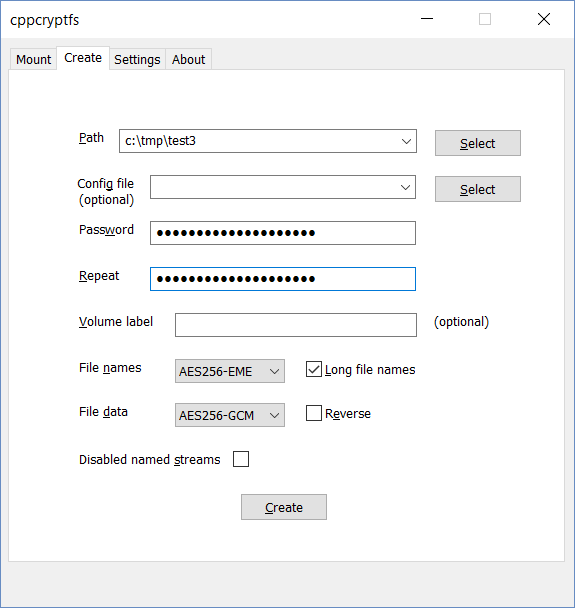
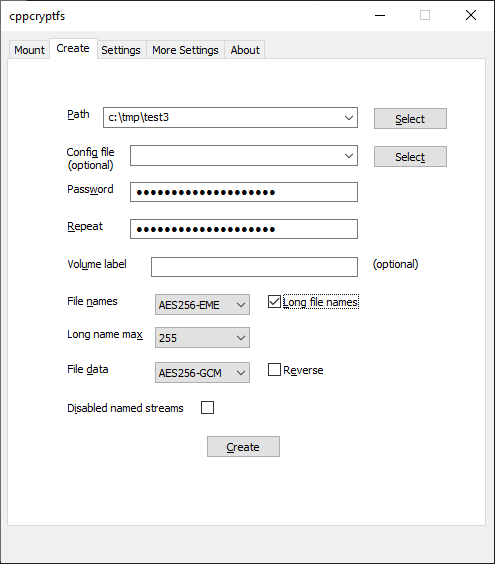
more changes for longnamemax

diff --git a/cppcryptfs/ui/CreatePropertyPage.cpp b/cppcryptfs/ui/CreatePropertyPage.cpp
@@ -254,6 +254,8 @@ void CCreatePropertyPage::CreateCryptfs()
 
 	theApp.WriteProfileStringW(L"CreateOptions", L"LongFileNames", clfns);
 
+	theApp.WriteProfileInt(L"CreateOptions", L"LongNameMax", longnamemax);
+
 	CString cdisablestreams = IsDlgButtonChecked(IDC_DISABLE_STREAMS) ? L"1" : L"0";
 
 	theApp.WriteProfileStringW(L"CreateOptions", L"DisableStreams", cdisablestreams);

diff --git a/README.md b/README.md
@@ -106,6 +106,8 @@ You can choose to have your file names encryped using AES256-EME or not to encry
 
 If "Long file names" is checked, then the names of files and directories can be up to 255 characters long when encrypted file names are used.  This option has no effect if plain text file names are used (plain text file names can be up to 255 characters long). See the section "File name and path length limits" near the end of this document for more information.  
 
+If a "Long name max" value that is less than 255 is selected (minimum value is 62), then cppcryptfs will limit filename length.  Even when 62 is selected, file names created will be up to 67 characters long.  This option is useful when using cloud services that have problems with filenames that are above a certain length.
+
 You can choose between AES256-GCM or AES256-SIV (RFC 5297) for file data encryption.  The default is AES256-GCM which is recommended. GCM is about twice as fast as SIV for streaming reads and writes.  SIV was implemented in order to support reverse mode. 
 
 Note: In the gocryptfs documentation, the SIV mode is referred to as AES-512-SIV, which is the proper name for this mode of operation. However, it is called AES256-SIV in cppcryptfs because the 512-bit SIV key is derived from the 256-bit master key (as is the case with gocryptfs).  Also, the developer of cppcryptfs doesn't want to call it AES512-SIV in the user interface because that might cause users to think that it is more secure than AES256-GCM.
@@ -366,6 +368,27 @@ Currently, the default and recommended settings are the same.
 Pressing the Reset Warnings button will turn back on any warning dialogs which were previously disabled by selecting "don't show this message again".
 
 
+More Settings
+---------
+There is also a settings tab.  
+
+![Alt text](/screenshots/screenshot_settings.png?raw=true "Settings tab")  
+*Recommended settings shown*
+
+The more settings tab has these additional settings:
+
+**Enable Flush After Write**
+A user reported that they were getting timeouts when copying lots of data to an external drive that was formatted using the exFAT filesystem.
+
+The problem seems to be specific to exFAT.
+
+The workaround is to enable flush after write.  When this setting is on, cppcryptfs will force Windows to write data to disk after every write operation cppcryptfs is asked to do.  
+
+This option reduces write performance noticeably. For copying large files, it's about 50% worse.  For lots of small files, it's much worse than that.
+
+The setting is on if any of the condidtions are true, so to enable it always, one could check both the "NTFS" and "Not NTFS" boxes.
+
+
 Saved Passwords
 ------
 
@@ -479,6 +502,7 @@ Initializing (cppcryptfsctl only):
   -S, --siv                   use AES256-SIV for data encr (default is GCM)
   -L, --longnames [1|0]       enable/disable LFNs. defaults to enabled (1)
   -b, --streams   [1|0]       enable/disable streams. defaults to enabled (1)
+  --longnamemax   N			  limit filenames to at most N characters
 
 Recovery/Maintenance (cppcryptfsctl only):
   --changepassword=PATH       Change password used to protect master key

diff --git a/INSTALL.md b/INSTALL.md
@@ -84,18 +84,8 @@ To start an elevated command prompt in Windows 10, click on the search (magnifyi
 
 Whether or not you are using git, everything will go easier if you put everything in c:\git.
 
-First, make the c:\\git directory, cd to it, clone the OpenSSL source code from github, and cd to the openssl directory which is created by git.
-
-```
-c:
-mkdir \git
-cd \git
-git clone https://github.com/openssl/openssl.git
-cd openssl
-```
-
-NOTE: Getting OpenSSL from github will get you the latest development version of OpenSSL.  However, the cppcryptfs releases are built using the
-current released version of OpenSSL (currently openssl-1.1.1g).  These are available from https://www.openssl.org/source/.  To use those, you will need to download
+Getting OpenSSL from github will get you the latest development version of OpenSSL.  However, the cppcryptfs releases are built using the
+current 1.1.1x Long Term Support (LTS) version of OpenSSL (currently openssl-1.1.1m).  These are available from https://www.openssl.org/source/.  To use those, you will need to download
 the .tar.gz and extract it into a directory.  You can build it with the same instructions that follow regardless of how you get OpenSSL.
 
 Microsoft has announced a compiler-based mitigation for one variant of the Spectre vulnerability.  To use it, you need to have version 15.5 or higher of Visual Studio.  To use the mitigation with OpenSSL, you need to add the /Qspectre flag to the compiler optimization flags.  OpenSSL currently does not use this flag.  Also, to be extra safe, add the /guard:cf (Control Flow Guard) flag.  To use these, you need to edit c:\\git\openssl\\Configurations\\10-main.conf and change "/O2" to "/O2 /Qspectre /guard:cf".  

diff --git a/changelog.md b/changelog.md
@@ -2,6 +2,16 @@
 
 Changelog
 ------------
+v1.4.3.11, Dec 29 2021
+* Add support for longnamemax.
+* Add settings for flush after write to work around timeout problem
+  when using exFAT drives.
+* Fix crash when using reverse mode and encountering long filenames
+  without long filenames enabled. Files with too-long names are now ignored
+  if long names are not enabled.
+* Fix incorrect disk space reported when using reverse mode filesystem
+  of whole drive.
+
 v1.4.3.10, Sep 3 2021
 * Noticed previous release was compiled with AES-NI instructions
   (hardware AES) support disabled.  This release fixes that.
